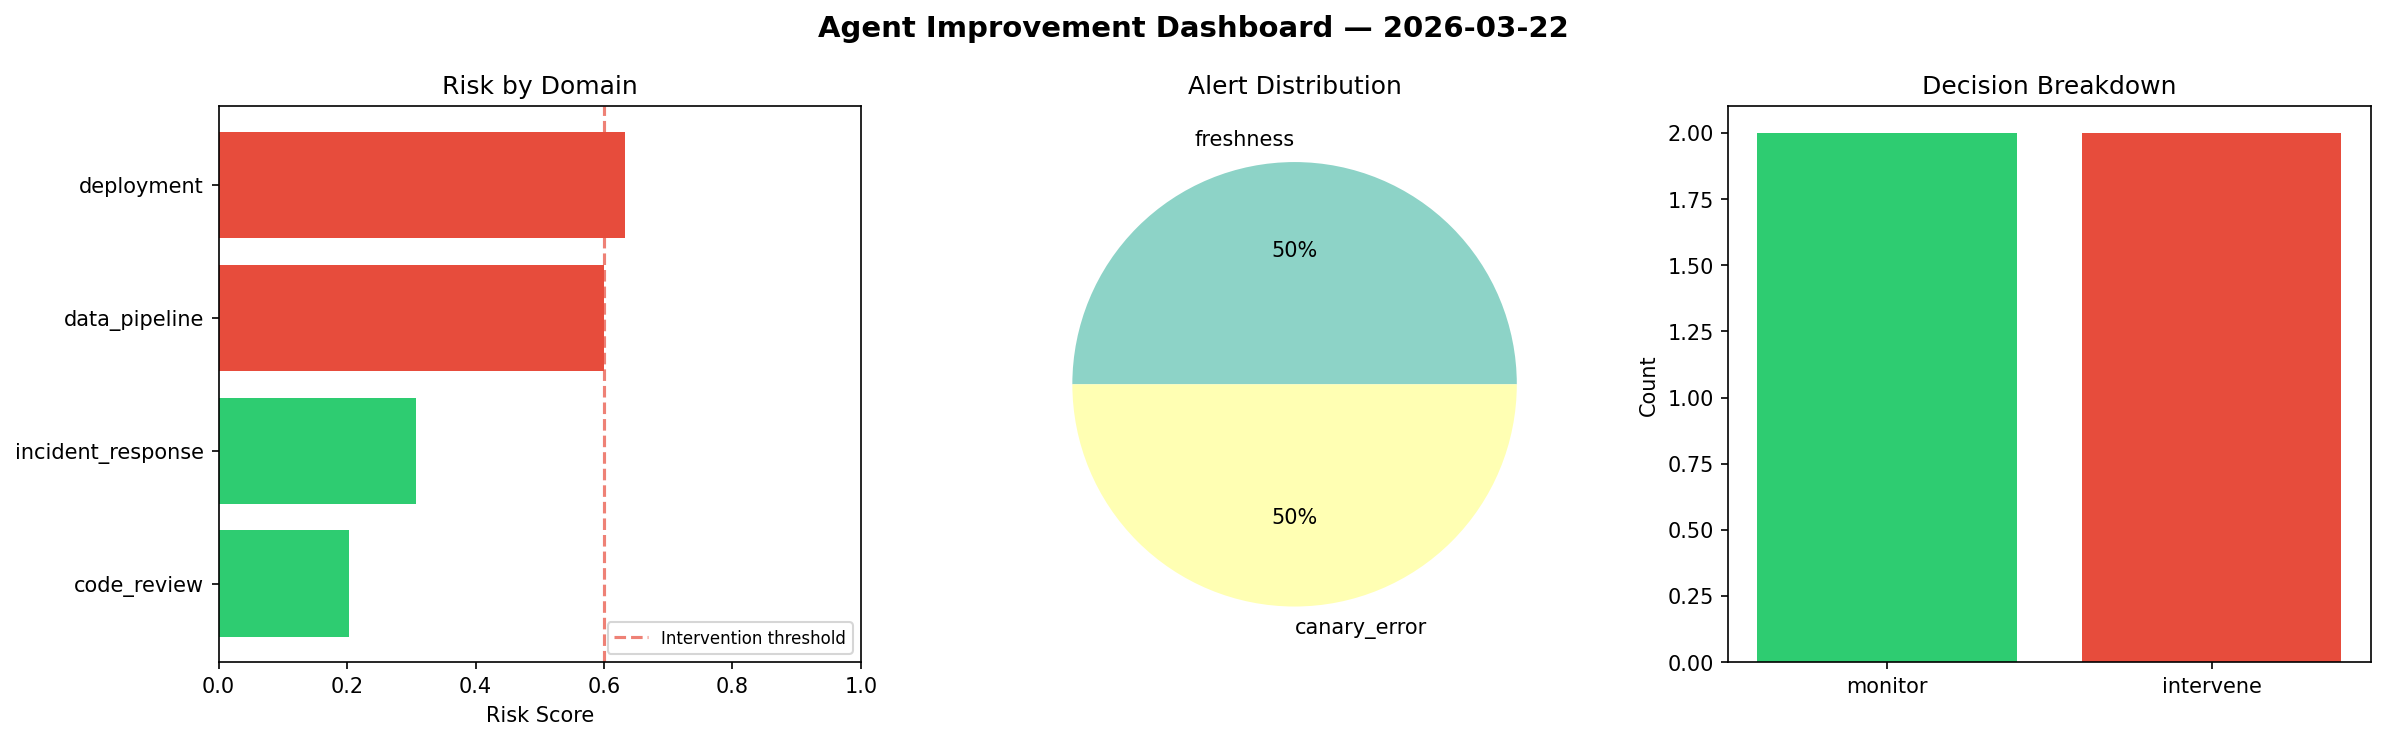
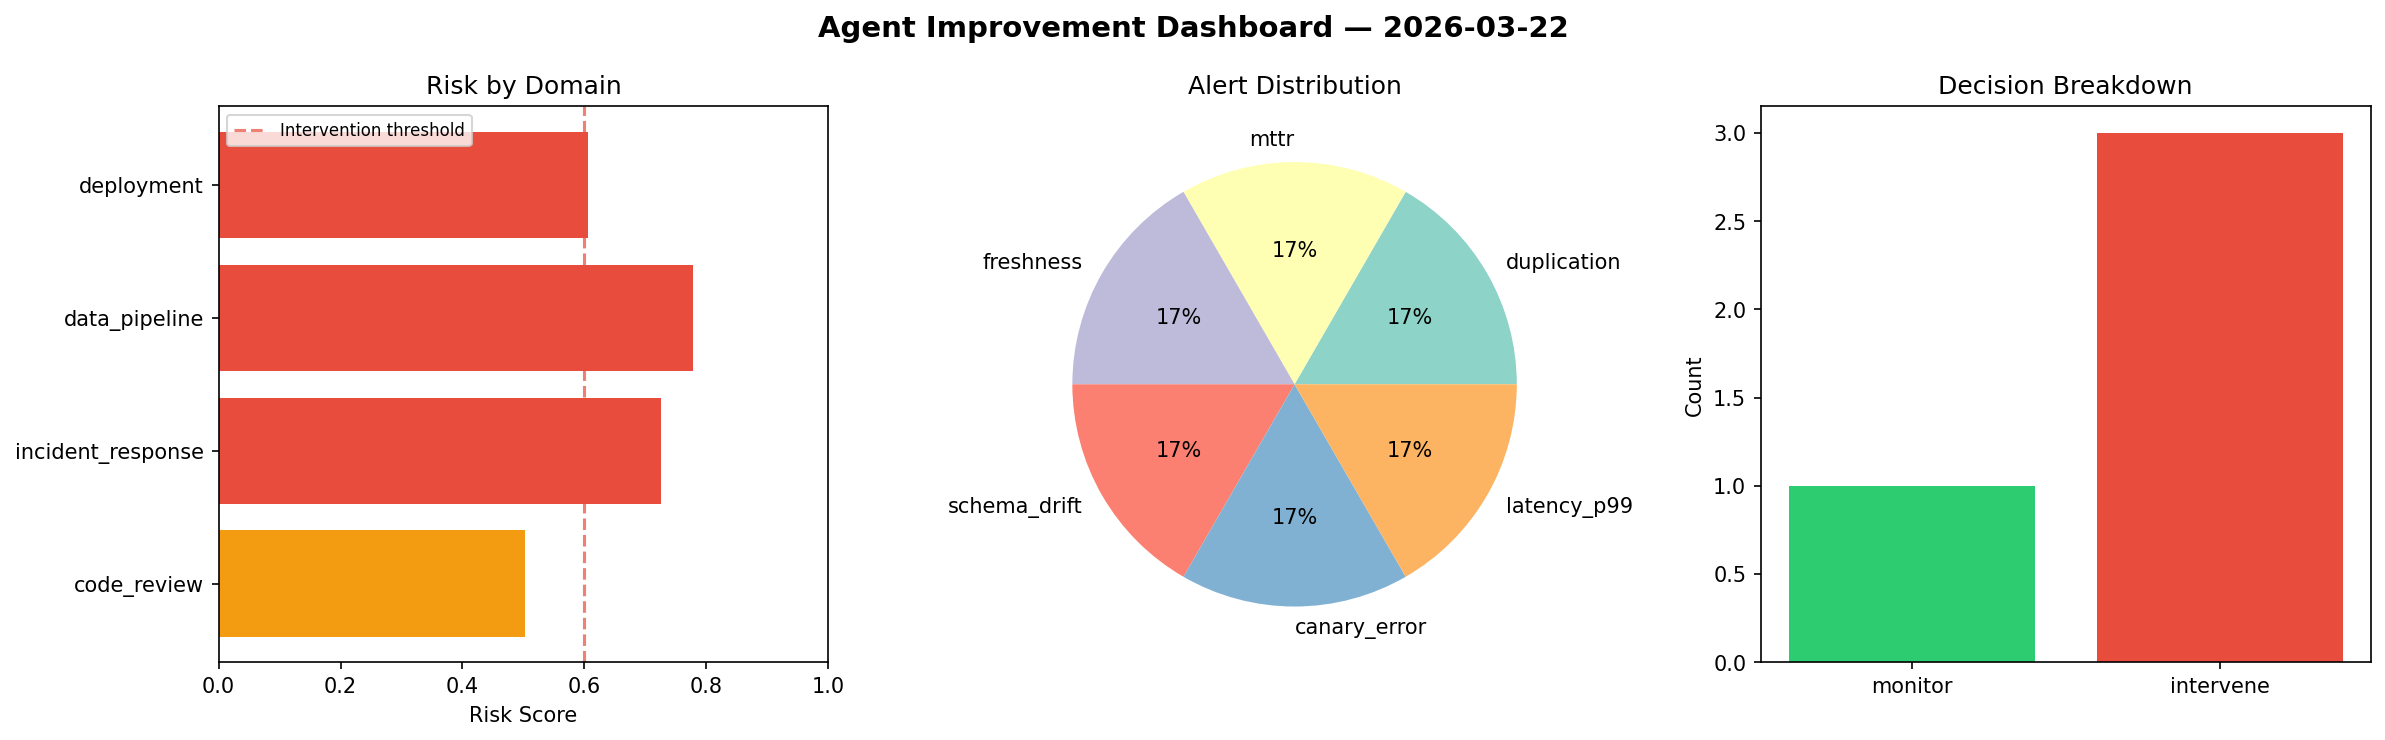
agent-improvement: daily cycle 2026-03-22T08:51

diff --git a/logs/2026-03-22.md b/logs/2026-03-22.md
@@ -1,6 +1,6 @@
 # Agent Improvement Report — 2026-03-22
 
-**Cycle ID:** `70095b9d` | **Avg Risk:** 0.436 | **Interventions:** 2/4
+**Cycle ID:** `4f5cd188` | **Avg Risk:** 0.6528 | **Interventions:** 3/4
 
 ![Dashboard](2026-03-22_dashboard.png)
 
@@ -10,18 +10,18 @@
 
 | Domain | Risk Score | Decision | Alerts |
 |--------|-----------|----------|--------|
-| code_review | 0.2036 | monitor | none |
-| incident_response | 0.3076 | monitor | none |
-| data_pipeline | 0.6006 | intervene | freshness |
-| deployment | 0.6321 | intervene | canary_error |
+| code_review | 0.5018 | monitor | duplication |
+| incident_response | 0.7251 | intervene | mttr |
+| data_pipeline | 0.7777 | intervene | freshness, schema_drift |
+| deployment | 0.6065 | intervene | canary_error, latency_p99 |
 
 ## Delta vs Yesterday
 
 | Domain | Today | Yesterday | Change |
 |--------|-------|-----------|--------|
-| code_review | 0.2036 | 0.453 | 📉 -55.1% |
-| incident_response | 0.3076 | 0.4707 | 📉 -34.7% |
-| data_pipeline | 0.6006 | 0.2494 | 📈 140.8% |
-| deployment | 0.6321 | 0.5378 | 📈 17.5% |
+| code_review | 0.5018 | 0.453 | 📈 10.8% |
+| incident_response | 0.7251 | 0.4707 | 📈 54.0% |
+| data_pipeline | 0.7777 | 0.2494 | 📈 211.8% |
+| deployment | 0.6065 | 0.5378 | 📈 12.8% |
 
 **Refinement:** `{'adjustment': 'tighten_thresholds', 'trend': 'degrading', 'window': 4}`
